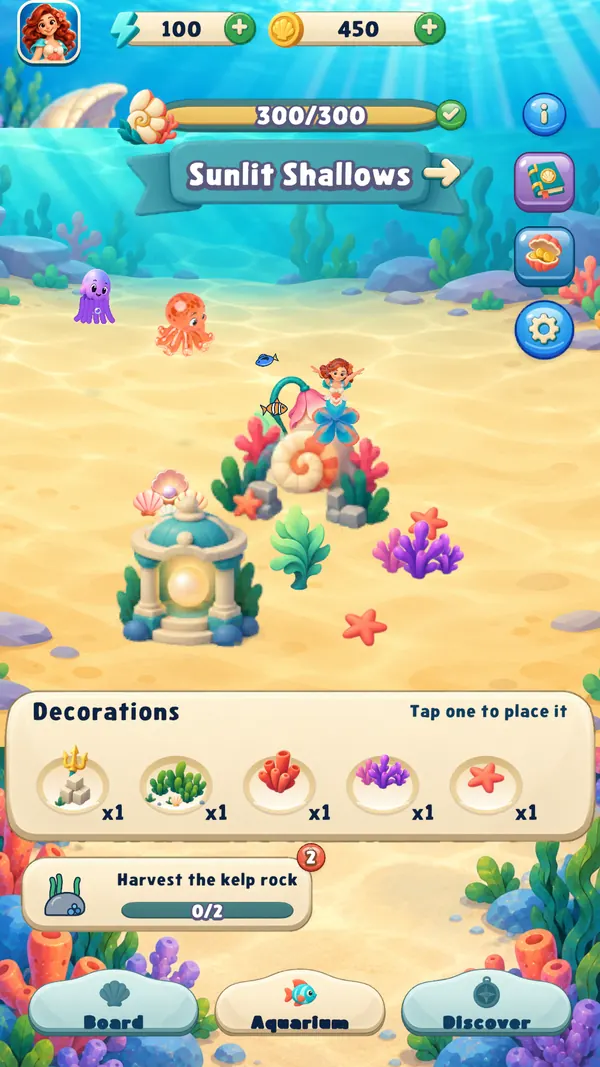
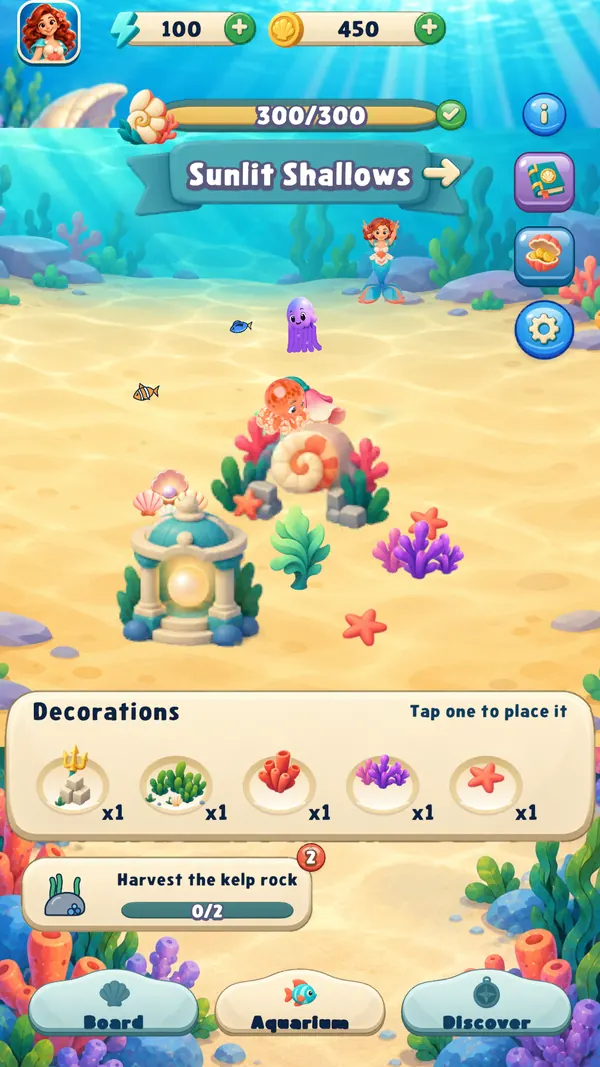
deploy: Nimble-Games/company-site@aab56f985bf2907c4f8bb29ee1555cd2fcb488f0

diff --git a/merge-atlantis/index.html b/merge-atlantis/index.html
@@ -4,7 +4,7 @@
 <link rel="stylesheet" href="https://fonts.googleapis.com/css2?family=Baloo+2:wght@600;700;800&family=Nunito:wght@500;700;800&display=swap">
 <style>
 /* The Merge Crown investor page's layout, re-themed for the sea: one poster column of cards.
-   Header art behind one liquid-glass panel, the bet, goals-not-orders, the loop ring, the aquarium,
+   The promo video under a compact glass card, the bet, goals-not-orders, the loop ring, the aquarium,
    the creatures, screens, status, and why players come back. */
 :root {
   --bg: #def3f8;          /* shallow water */
@@ -12,7 +12,7 @@
   --card: #fffdf7;        /* pearl */
   --ink: #0d3149;         /* deep-sea navy */
   --muted: #4c6b7d;
-  --royal: #0b7ea3;       /* lagoon teal */
+  --royal: #0b7ea3;       /* sea teal */
   --fill: #0f86ad;        /* teal behind white text */
   --gold: #e8792f;        /* coral */
   --ring: #bfe0ea;
@@ -20,7 +20,10 @@
   --hl: rgba(232,121,47,.14);
   --ok: #3f9e3a;          /* the kit's green action */
   --scrim: rgba(4,22,34,.9);
-  --glass: rgba(255, 255, 255, .58);
+  --glass: rgba(255, 255, 255, .34);
+  --halo: rgba(255, 255, 255, .7);
+  --title-fill: #ffd54a;   /* the logo's yellow */
+  --title-stroke: #0d3a5c; /* the logo's deep-sea outline */
   --glass-edge: rgba(255, 255, 255, .62);
   --glass-sheen: rgba(255, 255, 255, .3);
   --on-scrim: #ffffff;
@@ -33,14 +36,14 @@
   :root:not([data-theme="light"]) {
     --bg: #06202f; --sky-2: #0b2d40; --card: #0f3045; --ink: #eef8fb; --muted: #9fc4d3;
     --royal: #5fd0ee; --fill: #137fa3; --gold: #ff9a55; --ring: #1f4d63; --glow: rgba(255,154,85,.38); --hl: rgba(255,154,85,.13);
-    --ok: #6cc65c; --scrim: rgba(2,12,20,.93); --glass: rgba(10, 40, 58, .6); --glass-edge: rgba(255, 255, 255, .18); --glass-sheen: rgba(255, 255, 255, .08);
+    --ok: #6cc65c; --scrim: rgba(2,12,20,.93); --glass: rgba(8, 34, 50, .42); --halo: rgba(0, 0, 0, .55); --glass-edge: rgba(255, 255, 255, .22); --glass-sheen: rgba(255, 255, 255, .08);
     --shadow: 0 10px 30px rgba(0,0,0,.35); color-scheme: dark;
   }
 }
 :root[data-theme="dark"] {
   --bg: #06202f; --sky-2: #0b2d40; --card: #0f3045; --ink: #eef8fb; --muted: #9fc4d3;
   --royal: #5fd0ee; --fill: #137fa3; --gold: #ff9a55; --ring: #1f4d63; --glow: rgba(255,154,85,.38); --hl: rgba(255,154,85,.13);
-  --ok: #6cc65c; --scrim: rgba(2,12,20,.93); --glass: rgba(10, 40, 58, .6); --glass-edge: rgba(255, 255, 255, .18); --glass-sheen: rgba(255, 255, 255, .08);
+  --ok: #6cc65c; --scrim: rgba(2,12,20,.93); --glass: rgba(8, 34, 50, .42); --halo: rgba(0, 0, 0, .55); --glass-edge: rgba(255, 255, 255, .22); --glass-sheen: rgba(255, 255, 255, .08);
   --shadow: 0 10px 30px rgba(0,0,0,.35); color-scheme: dark;
 }
 
@@ -84,34 +87,41 @@ body {
   animation: rise 7s linear infinite; opacity: 0;
 }
 @keyframes rise { 0% { transform: translateY(0) translateX(0); opacity: 0; } 10% { opacity: .9; } 50% { transform: translateY(-260%) translateX(12px); } 90% { opacity: .8; } 100% { transform: translateY(-560%) translateX(-6px); opacity: 0; } }
+/* a compact card tucked into the bottom-right corner, so the video carries the header */
 .glass {
-  position: relative; z-index: 1; margin: 24px;
-  display: grid; grid-template-columns: minmax(0, 1fr) minmax(0, 2fr); gap: 0; align-items: stretch;
-  width: min(100% - 48px, 520px);
+  position: relative; z-index: 1; margin: 16px;
+  display: grid; grid-template-columns: 60px minmax(0, auto); gap: 10px; align-items: center;
+  max-width: min(100% - 32px, 360px);
+  padding: 8px 14px 8px 8px;
   background: var(--glass);
-  -webkit-backdrop-filter: blur(16px) saturate(180%);
-  backdrop-filter: blur(16px) saturate(180%);
+  -webkit-backdrop-filter: blur(7px) saturate(150%);
+  backdrop-filter: blur(7px) saturate(150%);
   border: 1px solid var(--glass-edge);
-  border-radius: 22px;
-  box-shadow: 0 18px 44px rgba(0, 0, 0, .22), inset 0 1px 1px var(--glass-edge);
+  border-radius: 16px;
+  box-shadow: 0 10px 26px rgba(0, 0, 0, .18), inset 0 1px 1px var(--glass-edge);
   overflow: hidden;
 }
-.glass::before { content: ""; position: absolute; inset: 0; border-radius: inherit; pointer-events: none; background: linear-gradient(180deg, var(--glass-sheen), transparent 40%); }
+.glass::before { content: ""; position: absolute; inset: 0; border-radius: inherit; pointer-events: none; background: linear-gradient(180deg, var(--glass-sheen), transparent 45%); }
 .glass > * { position: relative; z-index: 1; }
-.glass-body { display: grid; gap: 8px; min-width: 0; align-content: center; padding: 20px 24px 22px; }
-.icon-cell { display: grid; place-items: center; padding: 22px 0 22px 22px; }
-.app-icon { width: 100%; max-width: 160px; aspect-ratio: 1; border-radius: 24%; border: 2px solid var(--glass-edge); box-shadow: 0 14px 30px rgba(0, 0, 0, .3); object-fit: cover; }
-h1 { margin: 0; line-height: 0; }
-h1 img { width: 100%; max-width: 270px; height: auto; filter: drop-shadow(0 6px 10px rgba(0,0,0,.2)); }
-.tagline { margin: 2px 0 0; font-family: var(--font-display); font-weight: 800; font-size: 20px; line-height: 1.15; color: var(--ink); }
-.lede { margin: 0; color: var(--ink); font-size: 15.5px; line-height: 1.45; opacity: .92; }
-.status-row { display: flex; flex-wrap: wrap; align-items: center; gap: 8px; margin-top: 4px; }
-.pill {
-  display: inline-flex; align-items: center; gap: 7px; padding: 6px 12px 5px; border-radius: 999px;
-  background: var(--fill); color: #fff; font-family: var(--font-display); font-weight: 800; font-size: 14px; line-height: 1;
+.glass-body { display: grid; gap: 3px; min-width: 0; align-content: center; justify-items: start; }
+.icon-cell { display: grid; place-items: center; }
+.app-icon { width: 60px; height: 60px; border-radius: 22%; border: 2px solid var(--glass-edge); box-shadow: 0 8px 18px rgba(0, 0, 0, .25); object-fit: cover; display: block; }
+h1 {
+  margin: 0 0 2px; font-family: var(--font-display); font-weight: 800; font-size: 24px; line-height: 1.05; letter-spacing: .01em;
+  color: var(--title-fill);
+  text-shadow:
+    2px 0 0 var(--title-stroke), -2px 0 0 var(--title-stroke), 0 2px 0 var(--title-stroke), 0 -2px 0 var(--title-stroke),
+    1.5px 1.5px 0 var(--title-stroke), -1.5px 1.5px 0 var(--title-stroke), 1.5px -1.5px 0 var(--title-stroke), -1.5px -1.5px 0 var(--title-stroke),
+    0 3px 0 var(--title-stroke), 1.5px 3px 0 var(--title-stroke), -1.5px 3px 0 var(--title-stroke), 0 5px 8px rgba(0, 0, 0, .25);
 }
-.pill i { width: 8px; height: 8px; border-radius: 50%; background: #9df07f; box-shadow: 0 0 0 3px rgba(157,240,127,.3); }
-.soon { margin: 0; font-family: var(--font-display); font-weight: 800; font-size: 12px; letter-spacing: .1em; text-transform: uppercase; color: var(--muted); }
+.tagline { margin: 0; font-family: var(--font-display); font-weight: 800; font-size: 14px; line-height: 1.15; color: var(--ink); text-wrap: balance; text-shadow: 0 0 6px var(--halo), 0 1px 1px var(--halo); }
+.status-row { display: flex; flex-wrap: wrap; align-items: center; gap: 4px 8px; margin-top: 1px; }
+.pill {
+  display: inline-flex; align-items: center; gap: 6px; padding: 4px 9px 3px; border-radius: 999px;
+  background: var(--fill); color: #fff; font-family: var(--font-display); font-weight: 800; font-size: 12px; line-height: 1;
+}
+.pill i { width: 7px; height: 7px; border-radius: 50%; background: #9df07f; box-shadow: 0 0 0 3px rgba(157,240,127,.3); }
+.soon { margin: 0; font-family: var(--font-display); font-weight: 800; font-size: 12px; color: var(--ink); text-shadow: 0 0 6px var(--halo), 0 1px 1px var(--halo); }
 
 /* ---------- shared card + section head ---------- */
 .card { background: var(--card); border-radius: 28px; box-shadow: var(--shadow); }
@@ -404,13 +414,11 @@ html.export .hint { display: none; }
 @media screen and (max-width: 640px) {
   .hero { flex-direction: column; align-items: stretch; min-height: 0; overflow: visible; background: none; box-shadow: none; aspect-ratio: auto; }
   .hero-art { position: relative; height: auto; aspect-ratio: 16 / 9; border-radius: 22px; }
-  .glass { width: auto; margin: -34px 12px 0; grid-template-columns: minmax(0, 1fr) minmax(0, 2fr); }
-  .glass-body { padding: 14px 14px 16px; gap: 6px; }
-  .icon-cell { padding: 16px 0 14px 14px; place-items: start center; }
-  h1 img { max-width: 200px; }
-  .tagline { font-size: 17px; }
-  .lede { font-size: 14px; }
-  .pill { font-size: 13px; }
+  .glass { margin: -16px 10px 0; max-width: none; grid-template-columns: 52px minmax(0, 1fr); gap: 10px; padding: 8px 12px 8px 8px; border-radius: 16px; background: var(--card); -webkit-backdrop-filter: none; backdrop-filter: none; border-color: var(--ring); box-shadow: var(--shadow); }
+  .app-icon { width: 52px; height: 52px; }
+  h1 { font-size: 21px; }
+  .tagline { font-size: 14px; text-shadow: none; max-width: none; }
+  .soon { text-shadow: none; color: var(--muted); }
   .loop { padding: 20px 14px 24px; }
   .legend li { padding: 8px 10px; column-gap: 12px; grid-template-columns: 34px 1fr; }
   .legend .badge { width: 34px; height: 34px; font-size: 17px; }
@@ -492,8 +500,8 @@ html.export .hint { display: none; }
   .hero { aspect-ratio: 16 / 9; }
   .hero-art { display: none !important; }
   .hero-print { display: block; }
-  .glass { background: rgba(255, 255, 255, .88); -webkit-backdrop-filter: none; backdrop-filter: none; width: min(100% - 32px, 500px); margin: 16px; }
-  h1 img { max-width: 220px; }
+  .glass { background: rgba(255, 255, 255, .86); -webkit-backdrop-filter: none; backdrop-filter: none; margin: 14px; }
+  .tagline, .soon { text-shadow: none; }
   .bet, .swap, .loop, .adv, .shots, .status, .kingdom { padding: 14px 18px 16px; gap: 10px; }
   .sec-head h2, .loop-title { font-size: 20px; }
   .bet-body { grid-template-columns: minmax(0, 1fr) minmax(0, 1fr); gap: 18px; }
@@ -548,7 +556,12 @@ html.export .hint { display: none; }
   .status-cols { grid-template-columns: repeat(2, minmax(0, 1fr)); gap: 10px; }
   .col { padding: 10px 12px 12px; gap: 6px; }
   .col h3 { font-size: 16px; }
-  .checks li { font-size: 12px; }
+  .checks { gap: 3px; }
+  .checks li { font-size: 11.5px; line-height: 1.3; }
+  .checks .ic { width: 18px; height: 18px; font-size: 11px; }
+  .checks li { grid-template-columns: 18px 1fr; }
+  .status .sec-head p { font-size: 11px; }
+  .hooks-title { break-after: avoid; page-break-after: avoid; }
   .engine { font-size: 12px; padding: 8px 12px; grid-template-columns: 40px 1fr; }
   .engine img { width: 40px; height: 40px; }
   .hooks-title { font-size: 18px; margin: 0; }
@@ -569,11 +582,9 @@ html.export .hint { display: none; }
     <div class="glass">
       <div class="icon-cell"><img class="app-icon" src="img/appicon.webp" alt="Merge Atlantis app icon: the mermaid heroine"></div>
       <div class="glass-body">
-        <h1><img src="img/logo.webp" alt="Merge Atlantis" width="900" height="401"></h1>
-        <p class="tagline">Merge. Build. Decorate an underwater kingdom.</p>
-        <p class="lede">A cosy merge game where nothing you make is taken away: everything ends up in a sunken kingdom you decorate and come back to.</p>
-        <div class="status-row"><span class="pill"><i></i>Playable prototype</span></div>
-        <p class="soon">In development · Not in stores yet</p>
+        <h1>Merge Atlantis</h1>
+        <p class="tagline">Merge. Build. Decorate under the sea.</p>
+        <div class="status-row"><span class="pill"><i></i>Playable prototype</span><span class="soon">Not in stores yet</span></div>
       </div>
     </div>
   </header>
@@ -802,7 +813,7 @@ html.export .hint { display: none; }
       <li><img src="img/deco_salvage_quay.webp" alt="Salvage quay" loading="lazy"></li>
       <li><img src="img/deco_crown_anemone.webp" alt="Crown anemone" loading="lazy"></li>
     </ul>
-    <p class="footnote">Designed so far: 16 merge chains of seven tiers and four wonders built in stages. 56 decorations painted across 7 collections (more planned).</p>
+    <p class="footnote">In the prototype: all four areas, with 56 decorations painted across 7 collections (more planned). Designed and painted, coming next: 16 merge chains of seven tiers and four wonders built in stages.</p>
   </section>
 
   <section class="adv card" aria-labelledby="adv-title">
@@ -834,13 +845,13 @@ html.export .hint { display: none; }
   <section class="shots card" aria-labelledby="shots-title">
     <div class="sec-head"><h2 id="shots-title">From the prototype</h2><p>Captured in the Unity build. Tap a screen to see it large.</p></div>
     <div class="shot-grid">
-      <figure><button class="shot" type="button" aria-label="Enlarge: Your aquarium"><img id="g-aquarium" src="img/ss_aquarium.webp" alt="The first area, decorated, with its meter full" loading="lazy"></button><figcaption>Your aquarium</figcaption></figure>
+      <figure><button class="shot" type="button" aria-label="Enlarge: Your aquarium"><img id="g-aquarium" src="img/ss_aquarium.webp" alt="Sunlit Shallows, decorated, with its meter full" loading="lazy"></button><figcaption>Your aquarium</figcaption></figure>
       <figure><button class="shot" type="button" aria-label="Enlarge: The reef board"><img id="g-reef" src="img/ss_reef.webp" alt="The 7 by 9 reef board with the jellyfish and the octopus" loading="lazy"></button><figcaption>The reef board</figcaption></figure>
       <figure><button class="shot" type="button" aria-label="Enlarge: Creatures at work"><img id="g-working" src="img/ss_working.webp" alt="The octopus and the jellyfish working beside harvest rocks, with timers" loading="lazy"></button><figcaption>Creatures at work</figcaption></figure>
       <figure><button class="shot" type="button" aria-label="Enlarge: Building a decoration"><img id="g-building" src="img/ss_building.webp" alt="The octopus building a decoration on the reef" loading="lazy"></button><figcaption>Building a decoration</figcaption></figure>
       <figure><button class="shot" type="button" aria-label="Enlarge: New discovery"><img id="g-discovery" src="img/ss_discovery.webp" alt="A new discovery card for a water orb" loading="lazy"></button><figcaption>New discovery</figcaption></figure>
-      <figure><button class="shot" type="button" aria-label="Enlarge: Decorations"><img id="g-decorations" src="img/ss_decorations.webp" alt="The decorations panel with collections" loading="lazy"></button><figcaption>Decorations</figcaption></figure>
-      <figure><button class="shot" type="button" aria-label="Enlarge: Area complete"><img id="g-complete" src="img/ss_complete.webp" alt="The area complete card, with the shark as a reward" loading="lazy"></button><figcaption>Area complete</figcaption></figure>
+      <figure><button class="shot" type="button" aria-label="Enlarge: Decorations"><img id="g-decorations" src="img/ss_decorations.webp" alt="The decorations panel: the Sea Gardens collection, with deco points and prices" loading="lazy"></button><figcaption>Decorations</figcaption></figure>
+      <figure><button class="shot" type="button" aria-label="Enlarge: Area complete"><img id="g-complete" src="img/ss_complete.webp" alt="The area complete card: Sunlit Shallows is finished and Coral Gardens opens" loading="lazy"></button><figcaption>Area complete</figcaption></figure>
       <figure><button class="shot" type="button" aria-label="Enlarge: Your first pet"><img id="g-shark" src="img/ss_shark.webp" alt="The shark pet swimming in the aquarium" loading="lazy"></button><figcaption>Your first pet</figcaption></figure>
     </div>
   </section>
@@ -858,7 +869,8 @@ html.export .hint { display: none; }
           <li><span class="ic">✓</span><span><b>The reef board:</b> harvest, merge and build on one 7 × 9 board, with no orders and no fog.</span></li>
           <li><span class="ic">✓</span><span><b>Goals</b> that come a few at a time and complete on their own.</span></li>
           <li><span class="ic">✓</span><span><b>The jellyfish and octopus crew</b> in 3D, working jobs on timers.</span></li>
-          <li><span class="ic">✓</span><span><b>The aquarium:</b> free placement, the deco meter, area complete, and areas to revisit.</span></li>
+          <li><span class="ic">✓</span><span><b>All four areas:</b> Sunlit Shallows, Coral Gardens, Royal Atlantis and Shipwreck Cove, with 56 decorations in the catalog.</span></li>
+          <li><span class="ic">✓</span><span><b>The aquarium:</b> free placement, the deco meter, area complete, and areas to revisit, with a decorations panel by collection.</span></li>
           <li><span class="ic">✓</span><span><b>The first pet,</b> the shark, earned by finishing the first area.</span></li>
           <li><span class="ic">✓</span><span><b>Dead reef</b> healed with water orbs from a magical well.</span></li>
           <li><span class="ic">✓</span><span><b>A near-instant switch</b> between the board and the aquarium, and the Discovery Book.</span></li>
@@ -868,8 +880,8 @@ html.export .hint { display: none; }
       <div class="col next">
         <h3>Next <span class="chip">Planned</span></h3>
         <ul class="checks">
-          <li><span class="ic">→</span><span><b>All four areas in the game.</b> Art is done for 16 chains and four wonders.</span></li>
-          <li><span class="ic">→</span><span><b>Wonders</b> that grow in stages from your discoveries.</span></li>
+          <li><span class="ic">→</span><span><b>16 merge chains and four wonders</b> in the game. The art is done; wonders grow in stages from your discoveries.</span></li>
+          <li><span class="ic">→</span><span><b>More decorations</b> for every collection.</span></li>
           <li><span class="ic">→</span><span><b>More creatures and pets</b> to call and collect.</span></li>
           <li><span class="ic">→</span><span><b>Economy and balancing:</b> energy, harvest pace and rewards.</span></li>
           <li><span class="ic">→</span><span><b>Monetization design</b> and live events.</span></li>
